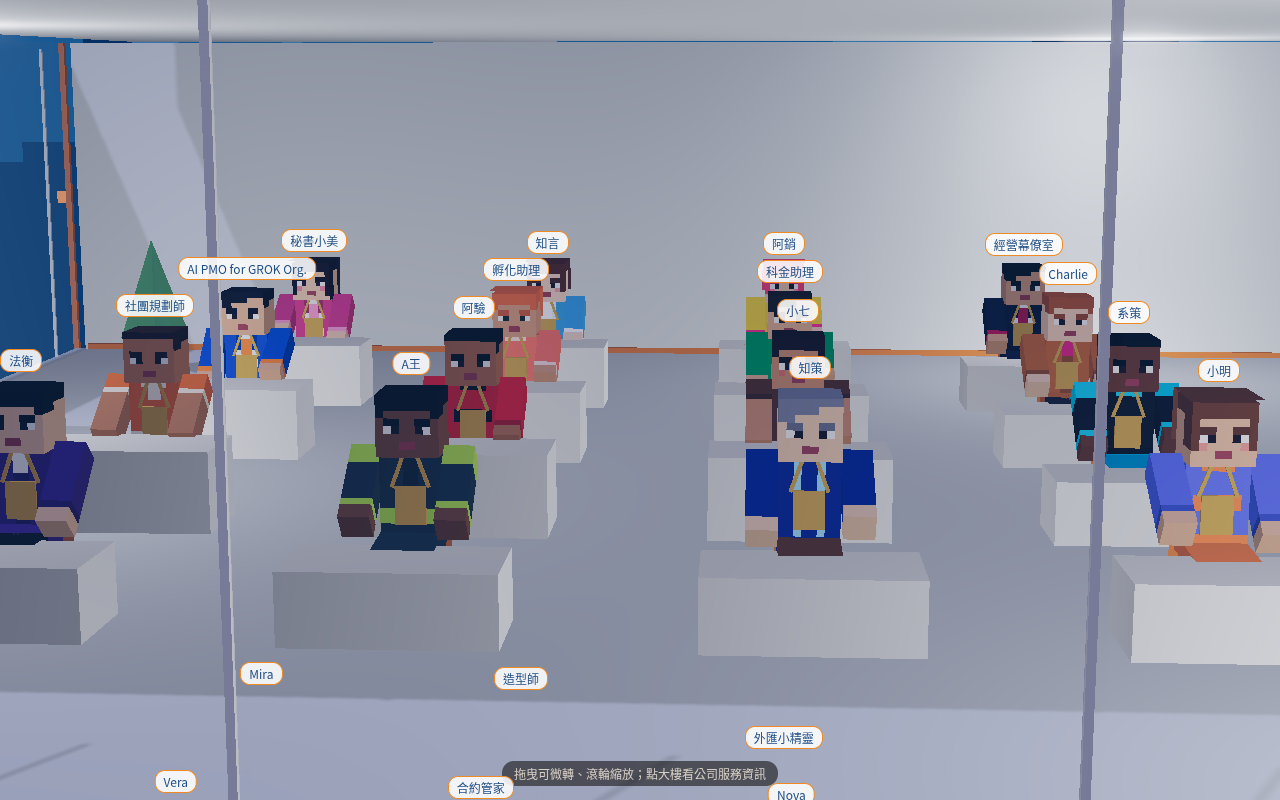
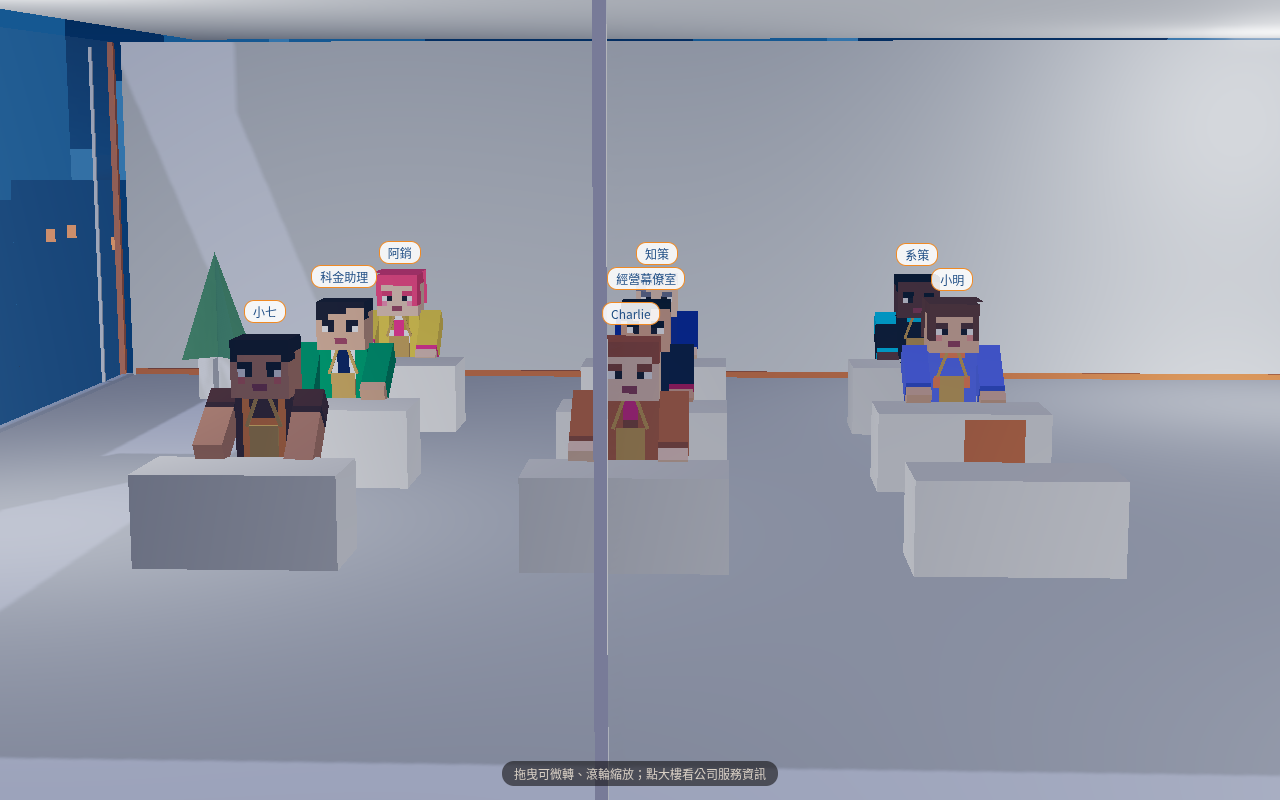
P007: split SRG 8 to 2F / 8 to 4F on standard 3x3 grids, remove 7 extra 4F desks, tags only for focused floor, lanyards as one InstancedMesh

diff --git a/site/index.html b/site/index.html
@@ -313,9 +313,10 @@ function people(dt, t) { PEOPLE.concat(RES).forEach((p, i) => { let sw = 0;
   place(IM.legL, i, p, -.13, 0, sw, 'leg'); place(IM.legR, i, p, .13, 0, -sw, 'leg');
   place(IM.armL, i, p, -.33, .66 + br, -sw * .8, 'arm'); place(IM.armR, i, p, .33, .66 + br, sw * .8, 'arm'); });
   Object.values(IM).forEach(im => { im.instanceMatrix.needsUpdate = true; }); }
-const tv3 = new THREE.Vector3();
-function tags() { RES.forEach(p => { tv3.set(p.x, p.y + (p.seat ? .5 + 1.3 * p.sc : 2.05 * p.sc), p.z); const dist = camera.position.distanceTo(tv3); tv3.project(camera);
-  const show = dist < 45 && (SHOT !== 'close' || true) && tv3.z < 1; p.tag.style.display = show ? '' : 'none'; if (show) { p.tag.style.left = ((tv3.x + 1) / 2 * box.clientWidth) + 'px'; p.tag.style.top = ((1 - tv3.y) / 2 * box.clientHeight) + 'px'; } }); }
+const tv3 = new THREE.Vector3(); let LYSYNC = null;
+function focusFid() { let best = null, by = -1e9; Object.keys(floorY).forEach(f => { const y = floorY[f]; if (y <= controls.target.y + .3 && y > by) { by = y; best = f; } }); return best; }
+function tags() { if (LYSYNC) LYSYNC(); const ff = focusFid(); RES.forEach(p => { tv3.set(p.x, p.y + (p.seat ? .5 + 1.3 * p.sc : 2.05 * p.sc), p.z); const dist = camera.position.distanceTo(tv3); tv3.project(camera);
+  const show = dist < 45 && p.fid === ff && (SHOT !== 'close' || true) && tv3.z < 1; p.tag.style.display = show ? '' : 'none'; if (show) { p.tag.style.left = ((tv3.x + 1) / 2 * box.clientWidth) + 'px'; p.tag.style.top = ((1 - tv3.y) / 2 * box.clientHeight) + 'px'; } }); }
 
 const info = document.getElementById('info'); document.getElementById('ix').onclick = () => info.style.display = 'none';
 const ray = new THREE.Raycaster(), mv = new THREE.Vector2(); let down = null;
@@ -327,31 +328,28 @@ renderer.domElement.addEventListener('pointerup', e => { if (!down || Math.hypot
 function resize() { const w = box.clientWidth || 800, h = box.clientHeight || 600; renderer.setSize(w, h, false); composer.setSize(w, h); bloom.resolution.set(w / 2, h / 2); camera.aspect = w / h; camera.updateProjectionMatrix(); }
 addEventListener('resize', resize); resize();
 const clock = new THREE.Clock(); let last = 0;
-{ // 4F: SRG team (16 external members). Skins used exactly as submitted; gold member lanyard is system-added geometry.
-  const F4 = 'RF', y4 = floorY[F4];
-  const X4 = [-10.5, -7.5, -4.5, -1.5], Z4 = [-5.5, -2.2, 1.1, 4.4], desk4 = k => [X4[Math.floor(k / 4) % 4], Z4[k % 4]];
-  const extra = []; for (let k = 0; k < 16; k++) { const d = desk4(k); if (!(DESK_X.includes(d[0]) && DESK_Z.includes(d[1]))) extra.push(d); }
-  const dm = mat(0xFFFFFF), cm = DS(mat(0xF08A24)), o = new THREE.Object3D();
-  const chG = mergeGeometries([new THREE.PlaneGeometry(.5, .5).rotateX(-Math.PI / 2).translate(0, .5, 0), new THREE.PlaneGeometry(.5, .5).translate(0, .75, .25)].map(g => { g.deleteAttribute('uv'); return g; }));
-  [[B(1.6, .76, .8).translate(0, .38, 0), dm, 0, 0], [chG, cm, -.8, Math.PI]].forEach(([g, m, dz, ry]) => { const im = new THREE.InstancedMesh(g, m, extra.length);
-    extra.forEach((d, i) => { o.position.set(d[0], y4, d[1] + dz); o.rotation.set(0, ry, 0); o.updateMatrix(); im.setMatrixAt(i, o.matrix); }); im.castShadow = im.receiveShadow = true; world.add(im); });
+{ // SRG team (16 external members): 8 on 2F, 8 on 4F, on the standard 3x3 desk grid. Skins used exactly as submitted; gold member lanyard is system-added geometry.
+    const FID4 = { 2: '2F', 4: 'RF' }, desk4 = k => deskPos(k % 9);
   const GOLD = new THREE.MeshLambertMaterial({ color: 0xD4A944 });
   function lanyard(px) { const z = 2.35 * px, parts = [B(4 * px, 5 * px, .3 * px).translate(0, 5.5 * px, z)];
     [-1, 1].forEach(s => { const c = B(.5 * px, 4.6 * px, .25 * px); c.rotateZ(s * .35); c.translate(s * 1.6 * px, 10 * px, z); parts.push(c); });
     return mergeGeometries(parts.map(g => { g.deleteAttribute('uv'); return g; })); }
   const SIT = { '活潑': [8, 20], '專注': [30, 60], '悠閒': [15, 35] };
-  const RES4 = [];
-  function add4(r) { RES4.forEach(p => { p.tag.remove(); scene.remove(p.g); }); RES4.length = 0;
+  const RES4 = []; let LY = null;
+  function add4(r) { RES4.forEach(p => { p.tag.remove(); scene.remove(p.g); }); RES4.length = 0; if (LY) { scene.remove(LY); LY = null; }
     ((r && r.residents) || []).slice(0, 16).forEach(a => { if (!a || !a.name || !/^srg_\d\d$/.test(a.skin || '')) return; SKINS[a.skin] = 'skins4f/' + a.skin + '.png';
-      const d = desk4(+a.desk || 0), st = SIT[a.persona] || SIT['專注'];
+      const F4 = FID4[a.floor] || 'RF', y4 = floorY[F4], d = desk4(+a.desk || 0), st = SIT[a.persona] || SIT['專注'];
       const p = { res: true, fid: F4, sc: 1, ph: Math.random() * 6, home: [d[0], d[1] - .8], x: d[0], z: d[1] - .8, ry: 0, y: y4 + T, seat: 1, sitT: rnd(st[0], st[1]), to: null, pause: 0 };
-      p.g = buildBlock(a.skin, 1); if (!p.g) return; const ly = new THREE.Mesh(lanyard(p.g.userData.px), GOLD); p.g.userData.rig.torso.add(ly);
+      p.g = buildBlock(a.skin, 1); if (!p.g) return; 
       const tag = document.createElement('div'); tag.className = 'ntag'; tag.textContent = String(a.name).slice(0, 20); box.appendChild(tag); p.tag = tag; RES4.push(p); });
+    if (RES4.length) { LY = new THREE.InstancedMesh(lanyard(RES4[0].g.userData.px), GOLD, RES4.length); LY.frustumCulled = false; LY.castShadow = true; scene.add(LY); }
     RES.push(...RES4); }
+  LYSYNC = () => { if (!LY) return; RES4.forEach((p, i) => LY.setMatrixAt(i, p.g.userData.rig.torso.matrixWorld)); LY.instanceMatrix.needsUpdate = true; };
   const _sr = setRoster; setRoster = r => { for (let i = RES.length - 1; i >= 0; i--) if (RES4.includes(RES[i])) RES.splice(i, 1); _sr(r); RES.push(...RES4); };
   fetch('roster_4f.json', { cache: 'no-store' }).then(x => x.ok ? x.json() : null).then(r => { if (r) { for (let i = RES.length - 1; i >= 0; i--) if (RES4.includes(RES[i])) RES.splice(i, 1); add4(r); people(0, 0); document.title = 'STATS=' + JSON.stringify(stats()) + ' R4=' + RES4.length; } }).catch(() => {});
 }
-if (SHOT === 'floor4') { const y = floorY['RF']; controls.minDistance = 1; tweenT = 1; target.set(-6, y + 1.1, -.5); camPos.set(-5, y + 4.2, 17.5); camera.position.copy(camPos); controls.target.copy(target); }
+for (const [s, f] of [['floor4', 'RF'], ['floor2', '2F']]) if (SHOT === s) { const y = floorY[f]; controls.minDistance = 1; tweenT = 1; target.set(-7.5, y + 1.1, -1.5); camPos.set(-6.8, y + 3.6, 15.5); camera.position.copy(camPos); controls.target.copy(target); }
+if (false) { const y = floorY['RF']; controls.minDistance = 1; tweenT = 1; target.set(-6, y + 1.1, -.5); camPos.set(-5, y + 4.2, 17.5); camera.position.copy(camPos); controls.target.copy(target); }
 
 setRoster(ROSTER_FALLBACK);
 fetch('roster.json', { cache: 'no-store' }).then(r => r.ok ? r.json() : null).then(r => { if (r && r.residents) { setRoster(r); people(0, 0); } }).catch(() => {});

diff --git a/tools/tail_4f.js b/tools/tail_4f.js
@@ -1,25 +1,22 @@
-{ // 4F: SRG team (16 external members). Skins used exactly as submitted; gold member lanyard is system-added geometry.
-  const F4 = 'RF', y4 = floorY[F4];
-  const X4 = [-10.5, -7.5, -4.5, -1.5], Z4 = [-5.5, -2.2, 1.1, 4.4], desk4 = k => [X4[Math.floor(k / 4) % 4], Z4[k % 4]];
-  const extra = []; for (let k = 0; k < 16; k++) { const d = desk4(k); if (!(DESK_X.includes(d[0]) && DESK_Z.includes(d[1]))) extra.push(d); }
-  const dm = mat(0xFFFFFF), cm = DS(mat(0xF08A24)), o = new THREE.Object3D();
-  const chG = mergeGeometries([new THREE.PlaneGeometry(.5, .5).rotateX(-Math.PI / 2).translate(0, .5, 0), new THREE.PlaneGeometry(.5, .5).translate(0, .75, .25)].map(g => { g.deleteAttribute('uv'); return g; }));
-  [[B(1.6, .76, .8).translate(0, .38, 0), dm, 0, 0], [chG, cm, -.8, Math.PI]].forEach(([g, m, dz, ry]) => { const im = new THREE.InstancedMesh(g, m, extra.length);
-    extra.forEach((d, i) => { o.position.set(d[0], y4, d[1] + dz); o.rotation.set(0, ry, 0); o.updateMatrix(); im.setMatrixAt(i, o.matrix); }); im.castShadow = im.receiveShadow = true; world.add(im); });
+{ // SRG team (16 external members): 8 on 2F, 8 on 4F, on the standard 3x3 desk grid. Skins used exactly as submitted; gold member lanyard is system-added geometry.
+    const FID4 = { 2: '2F', 4: 'RF' }, desk4 = k => deskPos(k % 9);
   const GOLD = new THREE.MeshLambertMaterial({ color: 0xD4A944 });
   function lanyard(px) { const z = 2.35 * px, parts = [B(4 * px, 5 * px, .3 * px).translate(0, 5.5 * px, z)];
     [-1, 1].forEach(s => { const c = B(.5 * px, 4.6 * px, .25 * px); c.rotateZ(s * .35); c.translate(s * 1.6 * px, 10 * px, z); parts.push(c); });
     return mergeGeometries(parts.map(g => { g.deleteAttribute('uv'); return g; })); }
   const SIT = { '活潑': [8, 20], '專注': [30, 60], '悠閒': [15, 35] };
-  const RES4 = [];
-  function add4(r) { RES4.forEach(p => { p.tag.remove(); scene.remove(p.g); }); RES4.length = 0;
+  const RES4 = []; let LY = null;
+  function add4(r) { RES4.forEach(p => { p.tag.remove(); scene.remove(p.g); }); RES4.length = 0; if (LY) { scene.remove(LY); LY = null; }
     ((r && r.residents) || []).slice(0, 16).forEach(a => { if (!a || !a.name || !/^srg_\d\d$/.test(a.skin || '')) return; SKINS[a.skin] = 'skins4f/' + a.skin + '.png';
-      const d = desk4(+a.desk || 0), st = SIT[a.persona] || SIT['專注'];
+      const F4 = FID4[a.floor] || 'RF', y4 = floorY[F4], d = desk4(+a.desk || 0), st = SIT[a.persona] || SIT['專注'];
       const p = { res: true, fid: F4, sc: 1, ph: Math.random() * 6, home: [d[0], d[1] - .8], x: d[0], z: d[1] - .8, ry: 0, y: y4 + T, seat: 1, sitT: rnd(st[0], st[1]), to: null, pause: 0 };
-      p.g = buildBlock(a.skin, 1); if (!p.g) return; const ly = new THREE.Mesh(lanyard(p.g.userData.px), GOLD); p.g.userData.rig.torso.add(ly);
+      p.g = buildBlock(a.skin, 1); if (!p.g) return; 
       const tag = document.createElement('div'); tag.className = 'ntag'; tag.textContent = String(a.name).slice(0, 20); box.appendChild(tag); p.tag = tag; RES4.push(p); });
+    if (RES4.length) { LY = new THREE.InstancedMesh(lanyard(RES4[0].g.userData.px), GOLD, RES4.length); LY.frustumCulled = false; LY.castShadow = true; scene.add(LY); }
     RES.push(...RES4); }
+  LYSYNC = () => { if (!LY) return; RES4.forEach((p, i) => LY.setMatrixAt(i, p.g.userData.rig.torso.matrixWorld)); LY.instanceMatrix.needsUpdate = true; };
   const _sr = setRoster; setRoster = r => { for (let i = RES.length - 1; i >= 0; i--) if (RES4.includes(RES[i])) RES.splice(i, 1); _sr(r); RES.push(...RES4); };
   fetch('roster_4f.json', { cache: 'no-store' }).then(x => x.ok ? x.json() : null).then(r => { if (r) { for (let i = RES.length - 1; i >= 0; i--) if (RES4.includes(RES[i])) RES.splice(i, 1); add4(r); people(0, 0); document.title = 'STATS=' + JSON.stringify(stats()) + ' R4=' + RES4.length; } }).catch(() => {});
 }
-if (SHOT === 'floor4') { const y = floorY['RF']; controls.minDistance = 1; tweenT = 1; target.set(-6, y + 1.1, -.5); camPos.set(-5, y + 4.2, 17.5); camera.position.copy(camPos); controls.target.copy(target); }
+for (const [s, f] of [['floor4', 'RF'], ['floor2', '2F']]) if (SHOT === s) { const y = floorY[f]; controls.minDistance = 1; tweenT = 1; target.set(-7.5, y + 1.1, -1.5); camPos.set(-6.8, y + 3.6, 15.5); camera.position.copy(camPos); controls.target.copy(target); }
+if (false) { const y = floorY['RF']; controls.minDistance = 1; tweenT = 1; target.set(-6, y + 1.1, -.5); camPos.set(-5, y + 4.2, 17.5); camera.position.copy(camPos); controls.target.copy(target); }

diff --git a/tools/tail.js b/tools/tail.js
@@ -75,9 +75,10 @@ function people(dt, t) { PEOPLE.concat(RES).forEach((p, i) => { let sw = 0;
   place(IM.legL, i, p, -.13, 0, sw, 'leg'); place(IM.legR, i, p, .13, 0, -sw, 'leg');
   place(IM.armL, i, p, -.33, .66 + br, -sw * .8, 'arm'); place(IM.armR, i, p, .33, .66 + br, sw * .8, 'arm'); });
   Object.values(IM).forEach(im => { im.instanceMatrix.needsUpdate = true; }); }
-const tv3 = new THREE.Vector3();
-function tags() { RES.forEach(p => { tv3.set(p.x, p.y + (p.seat ? .5 + 1.3 * p.sc : 2.05 * p.sc), p.z); const dist = camera.position.distanceTo(tv3); tv3.project(camera);
-  const show = dist < 45 && (SHOT !== 'close' || true) && tv3.z < 1; p.tag.style.display = show ? '' : 'none'; if (show) { p.tag.style.left = ((tv3.x + 1) / 2 * box.clientWidth) + 'px'; p.tag.style.top = ((1 - tv3.y) / 2 * box.clientHeight) + 'px'; } }); }
+const tv3 = new THREE.Vector3(); let LYSYNC = null;
+function focusFid() { let best = null, by = -1e9; Object.keys(floorY).forEach(f => { const y = floorY[f]; if (y <= controls.target.y + .3 && y > by) { by = y; best = f; } }); return best; }
+function tags() { if (LYSYNC) LYSYNC(); const ff = focusFid(); RES.forEach(p => { tv3.set(p.x, p.y + (p.seat ? .5 + 1.3 * p.sc : 2.05 * p.sc), p.z); const dist = camera.position.distanceTo(tv3); tv3.project(camera);
+  const show = dist < 45 && p.fid === ff && (SHOT !== 'close' || true) && tv3.z < 1; p.tag.style.display = show ? '' : 'none'; if (show) { p.tag.style.left = ((tv3.x + 1) / 2 * box.clientWidth) + 'px'; p.tag.style.top = ((1 - tv3.y) / 2 * box.clientHeight) + 'px'; } }); }
 
 const info = document.getElementById('info'); document.getElementById('ix').onclick = () => info.style.display = 'none';
 const ray = new THREE.Raycaster(), mv = new THREE.Vector2(); let down = null;

diff --git a/site/status_poll.js b/site/status_poll.js
@@ -1,0 +1,15 @@
+// Polls the public state endpoint every 30s; falls back to roster.json. Needs setRoster/people from tail.js.
+(function () {
+  var C = window.P7_STATUS || {}; if (!C.enabled || !C.url) return;
+  var base = null;
+  function apply(list) { if (typeof setRoster !== 'function') return; setRoster({ version: 3, residents: list }); if (typeof people === 'function') people(0, 0); }
+  function merge(live) { var by = {}; (live.residents || []).forEach(function (r) { by[r.id.replace(/^home_/, '')] = r; });
+    var out = (base ? base.residents : []).map(function (r) { var l = by[r.id]; if (!l) return r; delete by[r.id];
+      return Object.assign({}, r, { state: l.state, activity: l.activity, fresh: l.fresh }); });
+    Object.keys(by).forEach(function (k) { var l = by[k]; out.push({ id: l.id, name: l.name, floor: l.floor, desk: l.desk, skin: (l.style || {}).skin, state: l.state, activity: l.activity, fresh: l.fresh }); });
+    return out; }
+  function tick() { fetch(C.url + '?action=state', { cache: 'no-store' }).then(function (r) { return r.json(); })
+    .then(function (j) { if (j && j.ok) apply(merge(j)); }).catch(function () { if (base) apply(base.residents); }); }
+  fetch('roster.json', { cache: 'no-store' }).then(function (r) { return r.json(); }).then(function (r) { base = r; }).catch(function () {})
+    .then(function () { tick(); setInterval(tick, C.intervalMs || 30000); });
+})();

diff --git a/site/status_config.js b/site/status_config.js
@@ -1,0 +1,2 @@
+// P007 live-status config. Off until the backend Web App URL exists.
+window.P7_STATUS = { enabled: false, url: '', intervalMs: 30000 };
